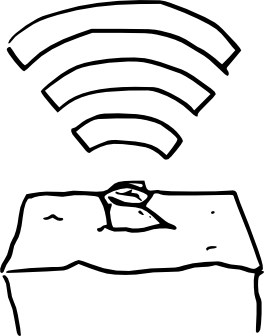
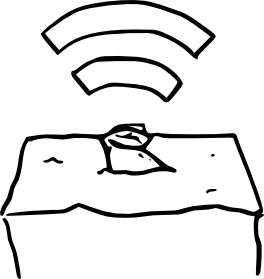
Remove a radiant line

Changed region(s): [[0.0, 0.0, 1.0, 1.0], [0.1515, 0.6308, 0.2424, 0.6595], [0.7879, 0.6308, 0.8182, 0.6882]]

diff --git a/README.rst b/README.rst
@@ -1,6 +1,6 @@
 .. image:: https://raw.github.com/earthreader/libearth/master/artwork/libearth.png
    :width: 132
-   :height: 168
+   :height: 139
 
 
 libearth

diff --git a/docs/index.rst b/docs/index.rst
@@ -3,7 +3,7 @@ libearth
 
 .. image:: _images/libearth.svg
    :width: 264
-   :height: 336
+   :height: 279
 
 |
 
